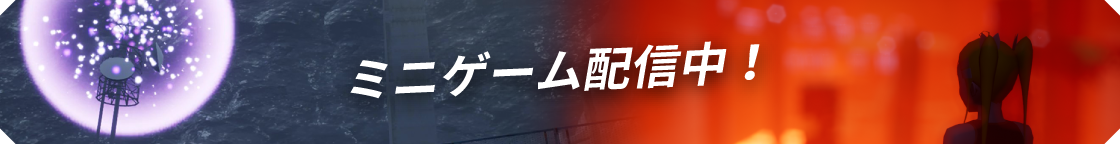
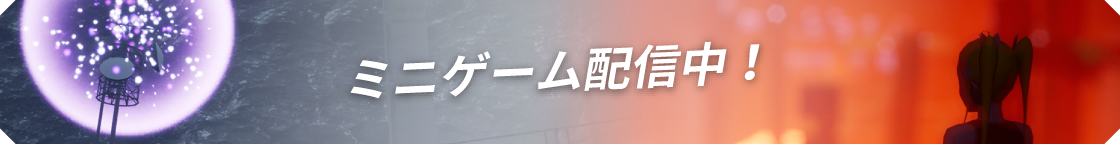
ミニゲームバナー&中身一応完成

diff --git a/src/index.html b/src/index.html
@@ -269,15 +269,23 @@
 	</div><!-- navigation-wrapper -->
 
 	<div id="minigames"><!-- Shown by Shadowbox -->
-		<div class="minigames">
-			<h2>ミニゲーム</h2>
+		<div class="minigames-container">
+			<div class="minigames">
+			<h3>ミニゲーム</h3>
 			<p>
 				本編は現在開発中ですが、開発途中で生まれたミニゲームを配信しています。
 			</p>
 			<div class="minigames-inner">
 				<div class="minigame">
-					<h3>あいうえお</h3>
+					<h4>電撃少女エクレア 業火の脱走路 &lt;レイジング・インフェルノ&gt;</h4>
+					<div class="minigame-inner">
+					<img src="images/minigames/inferno.png" width="280" alt="電撃少女エクレア 業火の脱走路" class="minigame-logo">
+					<p class="description">灼熱の溶鉱炉からできるだけ早く脱出しよう！エクレアの要となるアクション「電撃移動」の試作第一号です。</p>
+					<img src="images/minigames/inferno-screenshot.jpg" alt="スクリーンショット" class="minigame-screenshot">
+					</div>
+					<a href="http://qpic.jp/new/works/games/254" class="minigame-download button">Qpicの詳細ページへ</a>
 				</div>
+			</div>
 			</div>
 		</div>
 	</div>

diff --git a/src/scss/layout/_minigames.scss b/src/scss/layout/_minigames.scss
@@ -2,30 +2,63 @@
 	display: none;
 }
 
-.minigames {
+.minigames-container {
 	background: url("images/common/stripe.png");
 	background-size: 177px 151px;
 	width: 100%;
 	height: 100%;
-	padding: 16px;
-	overflow: scroll;
+}
 
-	h2 {
-		margin: 16px 0;
+.minigames {
+
+	h3 {
+		padding: 32px 0 16px;
 		text-align: center;
 		font-size: 2em;
 		text-shadow: 0 2px 4px rgba($black, .2);
 	}
 
 	p {
-		margin: 16px 0;
+		margin: 16px 16px;
 	}
 }
 
+.minigames-inner {
+	margin: 32px auto;
+}
+
 .minigame {
-	width: calc(100% - 32px);
+	width: calc(100% - 64px);
+	margin: 0 auto;
+	padding: 16px;
 	border-radius: 2px;
 	border: solid 1px #EEE;
 	background-color: white;
 	box-shadow: 0 2px 4px rgba($black, .2);
+}
+
+.minigame-logo {
+}
+
+.minigame-inner {
+	display: flex;
+	align-items: center;
+	margin: 8px 0;
+
+	.description {
+		flex: 1;
+		align-self: flex-start;
+	}
+}
+
+.minigame-screenshot {
+}
+
+.minigame-download.button {
+	background-color: $eclair-orange;
+	margin: 16px auto 0;
+
+	&:hover {
+		color: $eclair-orange;
+	}
 }

diff --git a/src/js/script.js b/src/js/script.js
@@ -138,7 +138,7 @@ function onPlayerReady(event) {
 var loopCount = 0;
 function onPlayerStateChange(event) {
   if (event.data == YT.PlayerState.ENDED) {
-    if(loopCount < 20) {//放置されても通信量ヤバくならない
+    if(loopCount < 10) {//放置されても通信量ヤバくならない
       event.target.seekTo(0,true);
       event.target.playVideo();
       loopCount++;

diff --git a/src/scss/layout/_banner.scss b/src/scss/layout/_banner.scss
@@ -1,7 +1,7 @@
 .banner {
 	position: relative;
 	width: 100%;
-	margin-bottom: -52px;
+	margin-bottom: -42px;
 	background: url("images/banner/background.svg");
 	background-size: 102%;
 	background-position: bottom center;
@@ -12,7 +12,7 @@
 		width: calc(100% - 32px);
 		max-width: 560px;
 		margin: 0 auto;
-		padding: 8px 0 0;
+		padding: 16px 0 0;
 	}
 
 	img {

diff --git a/src/scss/object/_button.scss b/src/scss/object/_button.scss
@@ -1,1 +1,17 @@
 /* button */
+.button {
+	display: block;
+	width: 300px;
+	height: 48px;
+	border-radius: 2px;
+	box-shadow: 0 1px 2px rgba($black,.3);
+	color: $white;
+	text-align: center;
+	line-height: 48px;
+	transition: 0.1s;
+	text-decoration: none;
+
+	&:hover {
+		background-color: $white;
+	}
+}

diff --git a/src/scss/layout/_navigation.scss b/src/scss/layout/_navigation.scss
@@ -31,7 +31,7 @@
 				margin: 8px 0;
 				width: 1px;
 				height: calc(100% - 16px);
-				background-color: white;
+				background-color: rgba($white, .5);
 				position: absolute;
 				right: 0;
 				top: 0;

diff --git a/src/scss/layout/_movie.scss b/src/scss/layout/_movie.scss
@@ -44,7 +44,7 @@
 .movie-play {
 	position: absolute;
 	left: 50%;
-	top: 56%;
+	top: 52%;
 	transform: translate(-50%,-50%);
 	transition: .2s ease-out;
 	filter: url(#drop-shadow);
